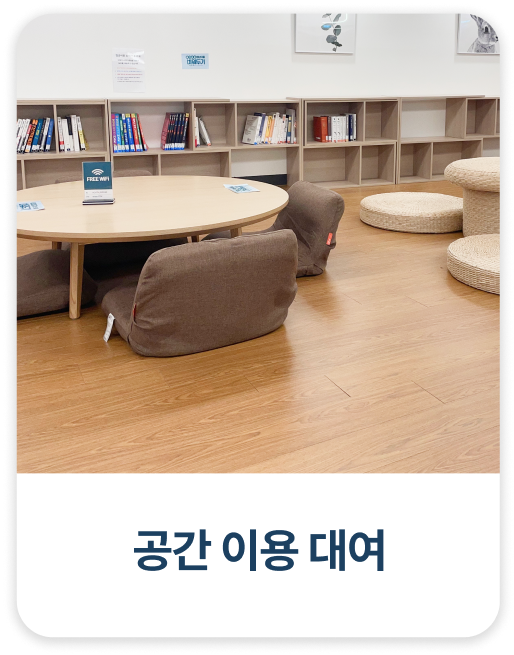
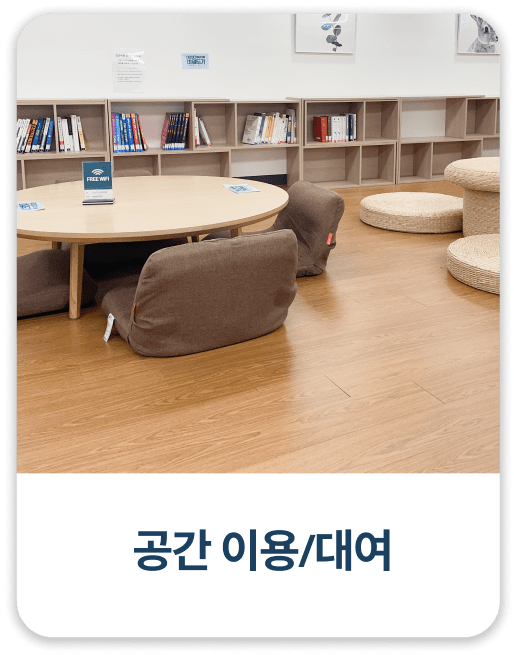
사진 교체 및 불필요 소스 제거

Changed region(s): [[0.5914, 0.7939, 0.7782, 0.8855], [0.2179, 0.1832, 0.249, 0.2443], [0.5603, 0.855, 0.5914, 0.8855]]

diff --git a/WebContent/MadeByJong/useEroom.html b/WebContent/MadeByJong/useEroom.html
@@ -38,15 +38,7 @@
         z-index: 20;
       }
       /* --------------------------------------------------------- */
-
-      /* .top .background1
-      {
-        position: relative;
-        width: 100vw;
-        height: 186px;
-        z-index: 10;
-      } */
-
+      
       .top #mainTitle {
         position: absolute;
         top: 80px;
@@ -69,54 +61,7 @@
         right: 5px;
         z-index: 20;
       }
-
-      /* .top .subTitleBackground {
-        position: absolute;
-        width: 240px;
-        height: 100px;
-        top: 200px;
-        left: 10px;
-        z-index: 20;
-      } */
       /* --------------------------------------------------------- */
-
-      /* .buttons .leftTop .mainCanvas {
-        position: absolute;
-        width: 45vw;
-        height: 34vh;
-        top: 190px;
-        left: 10px;
-        z-index: 30;
-      }
-
-      .buttons .leftTop .subCanvas {
-        position: absolute;
-        width: 43vw;
-        height: 27vh;
-        top: 190px;
-        left: 15px;
-        z-index: 40;
-      }
-
-      .buttons .leftTop #mainTitle {
-        position: absolute;
-        font-family: notoSans-Bold;
-        width: 135px;
-        color: white;
-        font-size: 22px;
-        top: calc(28vh + 126px);
-        left: 20px;
-        z-index: 40;
-      }
-
-      .buttons .leftTop #subTitle {
-        position: absolute;
-        width: 135px;
-        color: black;
-        top: calc(28vh + 190px);
-        left: 20px;
-        z-index: 40;
-      } */
 
       .buttons .leftTop .movePage {
         position: absolute;
@@ -129,48 +74,6 @@
       }
       /* --------------------------------------------------------- */
 
-      /* .buttons .rightTop .mainCanvas {
-        position: absolute;
-        width: 45vw;
-        height: 34vh;
-        top: 190px;
-        left: 50%;
-        margin-left: 10px;
-        z-index: 30;
-      }
-
-      .buttons .rightTop .subCanvas {
-        position: absolute;
-        width: 43vw;
-        height: 27vh;
-        top: 190px;
-        left: 50%;
-        margin-left: 15px;
-        z-index: 40;
-      }
-
-      .buttons .rightTop #mainTitle {
-        position: absolute;
-        font-family: notoSans-Bold;
-        width: 155px;
-        color: white;
-        font-size: 22px;
-        top: calc(28vh + 126px);
-        left: 50%;
-        margin-left: 20px;
-        z-index: 40;
-      }
-
-      .buttons .rightTop #subTitle {
-        position: absolute;
-        width: 155px;
-        color: black;
-        top: calc(28vh + 190px);
-        left: 50%;
-        margin-left: 20px;
-        z-index: 40;
-      } */
-
       .buttons .rightTop .movePage {
         position: absolute;
         width: 47vw;
@@ -182,44 +85,6 @@
       }
       /* --------------------------------------------------------- */
 
-      /* .buttons .leftBottom .mainCanvas {
-        position: absolute;
-        width: 45vw;
-        height: 34vh;
-        top: calc(34vh + 190px + 15px);
-        left: 10px;
-        z-index: 30;
-      }
-
-      .buttons .leftBottom .subCanvas {
-        position: absolute;
-        width: 43vw;
-        height: 27vh;
-        top: calc(34vh + 190px + 15px);
-        left: 15px;
-        z-index: 40;
-      }
-
-      .buttons .leftBottom #mainTitle {
-        position: absolute;
-        font-family: notoSans-Bold;
-        width: 135px;
-        color: white;
-        font-size: 22px;
-        top: calc(34vh + 126px + 28vh + 15px);
-        left: 20px;
-        z-index: 40;
-      }
-
-      .buttons .leftBottom #subTitle {
-        position: absolute;
-        width: 135px;
-        color: black;
-        top: calc(34vh + 190px + 28vh + 15px);
-        left: 20px;
-        z-index: 40;
-      } */
-
       .buttons .leftBottom .movePage {
         position: absolute;
         width: 47vw;
@@ -230,48 +95,6 @@
         cursor: pointer;
       }
       /* --------------------------------------------------------- */
-
-      /* .buttons .rightBottom .mainCanvas {
-        position: absolute;
-        width: 45vw;
-        height: 34vh;
-        top: calc(34vh + 190px + 15px);
-        left: 50%;
-        margin-left: 10px;
-        z-index: 30;
-      }
-
-      .buttons .rightBottom .subCanvas {
-        position: absolute;
-        width: 43vw;
-        height: 27vh;
-        top: calc(34vh + 190px + 15px);
-        left: 50%;
-        margin-left: 15px;
-        z-index: 40;
-      }
-
-      .buttons .rightBottom #mainTitle {
-        position: absolute;
-        font-family: notoSans-Bold;
-        width: 155px;
-        color: white;
-        font-size: 22px;
-        top: calc(34vh + 126px + 28vh + 15px);
-        left: 50%;
-        margin-left: 20px;
-        z-index: 40;
-      }
-
-      .buttons .rightBottom #subTitle {
-        position: absolute;
-        width: 155px;
-        color: black;
-        top: calc(34vh + 190px + 28vh + 15px);
-        left: 50%;
-        margin-left: 20px;
-        z-index: 40;
-      } */
 
       .buttons .rightBottom .movePage {
         position: absolute;
@@ -314,42 +137,6 @@
           width: 235px;
           top : calc(33vh + 190px + 10px);
         }
-
-        /* .top .background1 {
-          width: 500px;
-        } */
-
-        /* .buttons .leftTop .mainCanvas {
-          width: 232px;
-        }
-
-        .buttons .leftTop .subCanvas {
-          width: 222px;
-        }
-
-        .buttons .rightTop .mainCanvas {
-          width: 232px;
-        }
-
-        .buttons .rightTop .subCanvas {
-          width: 222px;
-        }
-
-        .buttons .leftBottom .mainCanvas {
-          width: 232px;
-        }
-
-        .buttons .leftBottom .subCanvas {
-          width: 222px;
-        }
-
-        .buttons .rightBottom .mainCanvas {
-          width: 232px;
-        }
-
-        .buttons .rightBottom .subCanvas {
-          width: 222px;
-        } */
       }
     </style>
 
@@ -372,71 +159,33 @@
         </a>
       </div>
       <div class="top">
-        <!-- <img class="background1" src="./image/useEroom/useEroomBackground1.png" alt="배경1"> -->
         <img class="character" src="./image/useEroom/character2.png" alt="캐릭터">
         <p class="mainText" id="mainTitle">청년이룸 이용하기</p>
         <p class="subText" id="subTitle">&nbsp;&nbsp;청년이룸에서 무엇을 할 수 있어요?</p>
-        <!-- <img class="subTitleBackground" src="./image/useEroom/subTilteBackground.png" alt="소분류 배경"> -->
       </div>
       <div class="buttons">
         <div class="leftTop">
-          <!-- <img class="mainCanvas" src="./image/useEroom/buttonBackground2.png" alt="버튼 밑바탕">
-          <img class="subCanvas" src="./image/useEroom/studyArea.png" alt="버튼 캔버스">
-          <img class="subCanvas" src="./image/useEroom/blur.png" alt="불투명 캔버스" style="z-index: 45;">
-          <p class="mainText" id="mainTitle">공간 이룸 대여</p>
-          <p class="subText" id="subTitle">쉬면서 공부하는 꿀맛</p> -->
-          <!-- <button class="movePage" type="button" name="button"
-            style="background: url(./image/useEroom/studyArea2.png) no-repeat; background-size: cover;"
-            onclick="location.href='http://www.youtheroom.kr/bbs/board.php?tbl=bbs21&PHPSESSID=bb4fe7bbea246275836b1696d7682389'"></button> -->
-            <button class="movePage" type="button" name="button"
-              style="background: url(./image/useEroom/studyArea2.png) no-repeat; background-size: 100% 100%;"
-              onclick="window.open('http://www.youtheroom.kr/bbs/board.php?tbl=bbs21&PHPSESSID=bb4fe7bbea246275836b1696d7682389')">
-                <!-- <img src="./image/useEroom/studyArea2.png" alt="공간 이용 대여"> -->
-            </button>
+          <button class="movePage" type="button" name="button"
+            style="background: url(./image/useEroom/studyArea2.png) no-repeat; background-size: 100% 100%;"
+            onclick="window.open('http://www.youtheroom.kr/bbs/board.php?tbl=bbs21&PHPSESSID=bb4fe7bbea246275836b1696d7682389')">
+          </button>
         </div>
         <div class="rightTop">
-          <!-- <img class="mainCanvas" src="./image/useEroom/buttonBackground2.png" alt="버튼 밑바탕">
-          <img class="subCanvas" src="./image/useEroom/arvr.png" alt="버튼 캔버스">
-          <img class="subCanvas" src="./image/useEroom/blur.png" alt="불투명 캔버스" style="z-index: 45;">
-          <p class="mainText" id="mainTitle">VR/AI 면접체험</p>
-          <p class="subText" id="subTitle">두근두근 모의면접</p> -->
-          <!-- <button class="movePage" type="button" name="button"
-            style="background: url(./image/useEroom/vrai2.png) no-repeat; background-size: cover;"
-            onclick="location.href='http://www.youtheroom.kr/product/item.php?ca_id=10&it_id=1618306845&status=&search='"></button> -->
-            <button class="movePage" type="button" name="button"
-              style="background: url(./image/useEroom/vrai2.png) no-repeat; background-size: 100% 100%;"
-              onclick="window.open('http://www.youtheroom.kr/product/item.php?ca_id=10&it_id=1618306845&status=&search=')">
-                <!-- <img src="./image/useEroom/vrai2.png" alt="vr/ai 면접"> -->
-            </button>
+          <button class="movePage" type="button" name="button"
+            style="background: url(./image/useEroom/vrai2.png) no-repeat; background-size: 100% 100%;"
+            onclick="window.open('http://www.youtheroom.kr/product/item.php?ca_id=10&it_id=1618306845&status=&search=')">
+          </button>
         </div>
         <div class="leftBottom">
-          <!-- <img class="mainCanvas" src="./image/useEroom/buttonBackground2.png" alt="버튼 밑바탕">
-          <img class="subCanvas" src="./image/useEroom/program.png" alt="버튼 캔버스">
-          <img class="subCanvas" src="./image/useEroom/blur.png" alt="불투명 캔버스" style="z-index: 45;">
-          <p class="mainText" id="mainTitle">프로그램 안내</p>
-          <p class="subText" id="subTitle">오늘도 스펙업!</p> -->
-          <!-- <button class="movePage" type="button" name="button"
-            style="background: url(./image/useEroom/program2.png) no-repeat; background-size: cover;"
-            onclick="location.href='http://www.youtheroom.kr/product/list.php?ca_id=10'"></button> -->
-            <button class="movePage" type="button" name="button"
-              style="background: url(./image/useEroom/program2.png) no-repeat; background-size: 100% 100%;"
-              onclick="window.open('http://www.youtheroom.kr/product/list.php?ca_id=10')">
-              <!-- <img src="./image/useEroom/program2.png" alt="프로그램 안내"> -->
-            </button>
+          <button class="movePage" type="button" name="button"
+            style="background: url(./image/useEroom/program2.png) no-repeat; background-size: 100% 100%;"
+            onclick="window.open('http://www.youtheroom.kr/product/list.php?ca_id=10')">
+          </button>
         </div>
         <div class="rightBottom">
-          <!-- <img class="mainCanvas" src="./image/useEroom/buttonBackground2.png" alt="버튼 밑바탕">
-          <img class="subCanvas" src="./image/useEroom/buttonBackground1.png" alt="버튼 캔버스">
-          <img class="subCanvas" src="./image/useEroom/blur.png" alt="불투명 캔버스" style="z-index: 45;">
-          <p class="mainText" id="mainTitle">카페 이용 안내</p>
-          <p class="subText" id="subTitle">얼죽아 모여라</p> -->
-          <!-- <button class="movePage" type="button" name="button"
-            style="background: url(./image/useEroom/cafe2.png) no-repeat; background-size: cover;"
-            onclick="location.href='./infoEroom.html'"></button> -->
             <button class="movePage" type="button" name="button"
               style="background: url(./image/useEroom/cafe2.png) no-repeat; background-size: 100% 100%;"
               onclick="location.href='./infoEroom.html'">
-                <!-- <img src="./image/useEroom/cafe2.png" alt="카페 이용 안내"> -->
             </button>
         </div>
       </div>
